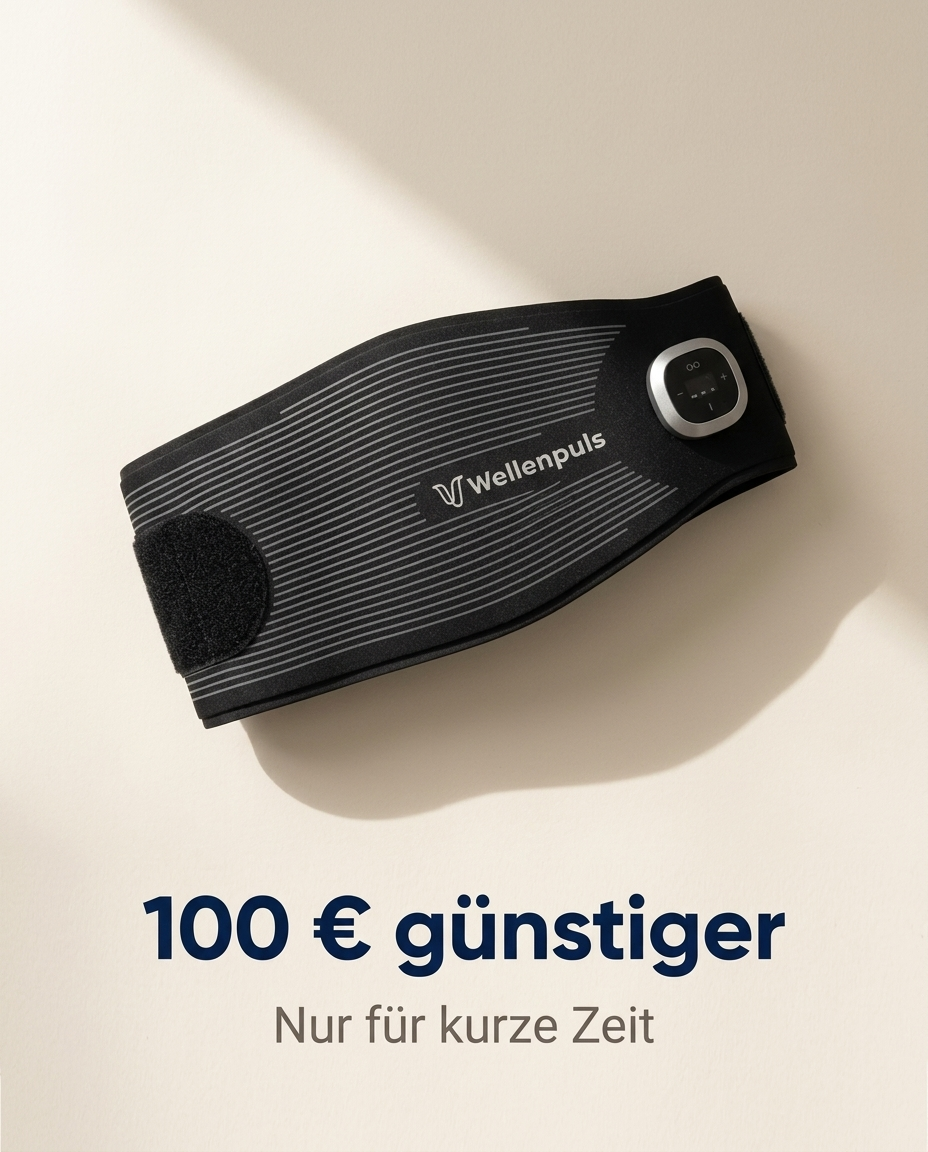
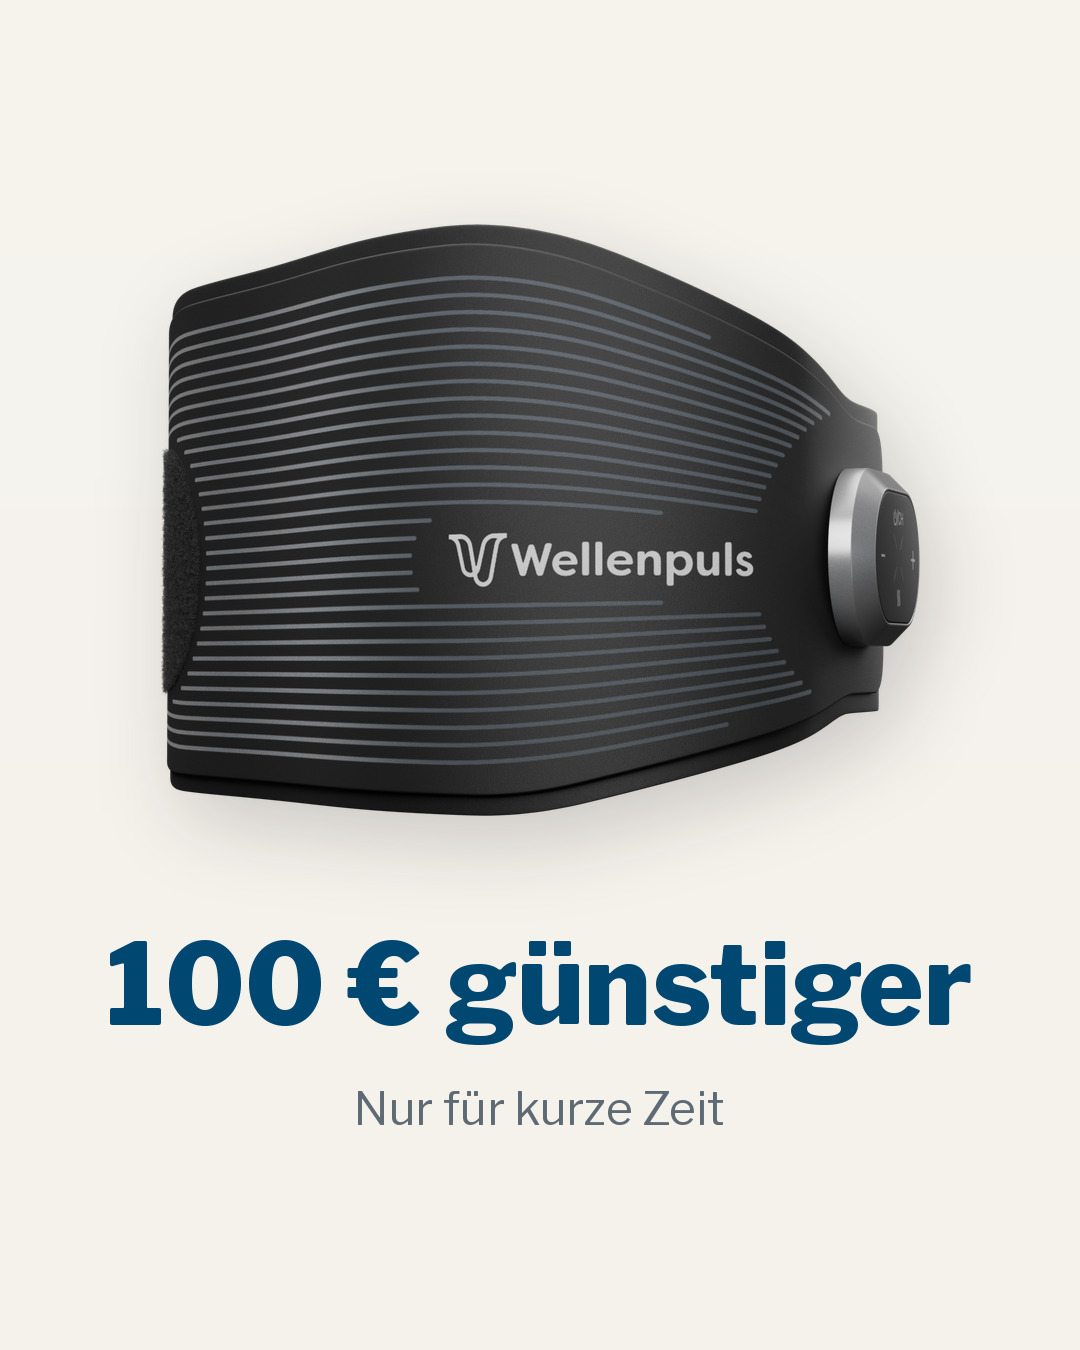
Anzeigenmotive aus echten Produktaufnahmen bauen statt sie zu generieren
Der Guertel kam aus dem Bildmodell nur annaehernd richtig heraus, und in
akt-02 trug die Frau ihn ueber der Bluse -- eine Anwendung, die es nicht gibt.
Bei einem Publikum, das das Produkt aus frueheren Anzeigen kennt, kostet das
mehr Glaubwuerdigkeit als ein ueberraschendes Bild einbringt.

Quellen sind jetzt der freigestellte PackShot, das Bundle-Rendering und das
Anwendungsfoto vom unteren Ruecken. Farben stammen aus denselben oklch-Token
wie die Landingpage, damit Anzeige und Seite nicht nach zwei Marken aussehen.

assets/Anwendung-wellenpuls.jpg bleibt aussen vor: es zeigt ein anderes
Geraet mit aussenliegenden Elektrodenpads.

diff --git a/scripts/bau-aktion-ads.py b/scripts/bau-aktion-ads.py
@@ -1,0 +1,156 @@
+#!/usr/bin/env python3
+"""Anzeigenmotive fuer die Rabattaktion aus echten Produktaufnahmen bauen.
+
+    python3 scripts/bau-aktion-ads.py
+
+Bewusst kein Bildmodell: Nano Banana hat den Guertel in der ersten Runde nur
+annaehernd getroffen und in einem Motiv ueber der Kleidung getragen. Bei einem
+Produkt, das die Zielgruppe aus frueheren Anzeigen schon kennt, ist eine
+ungenaue Darstellung teurer als ein weniger ueberraschendes Bild.
+
+Quellen, alle echt:
+    assets/PackShot_01.png                              freigestellt, Alpha sauber
+    assets/bundle_image.png                             Komplettpaket
+    assets/Frau_50_WellenpulsLWS_Lifestyle_Rueckansicht Anwendung am unteren Ruecken
+
+NICHT verwendet: assets/Anwendung-wellenpuls.jpg zeigt ein anderes Geraet
+(sichtbare Elektrodenpads aussen, abweichende Bedieneinheit).
+
+Ausgabe: assets/ads/aktion/*.jpg im Format 4:5 (1080x1350).
+"""
+import unicodedata
+from pathlib import Path
+from PIL import Image, ImageDraw, ImageFont, ImageFilter
+
+ROOT = Path(__file__).resolve().parent.parent
+OUT = ROOT / "assets/ads/aktion"
+FONTS = Path("/tmp/claude-0/-root-projects-stabil-im-alltag/"
+             "f9460ef2-a70e-4af8-ad16-5306a73299ae/scratchpad")
+B, H = 1080, 1350
+
+# ── Farben aus denselben oklch-Token wie die Landingpage ────────────────────
+# Eine Quelle fuer Seite und Anzeige: sonst driften Blau und Grau auseinander,
+# und der Wechsel von der Anzeige auf die Seite fuehlt sich nach zwei Marken an.
+def oklch(L, C, h_deg):
+    import math
+    h = math.radians(h_deg)
+    a, b_ = C * math.cos(h), C * math.sin(h)
+    l_, m_, s_ = L + .3963377774*a + .2158037573*b_, \
+                 L - .1055613458*a - .0638541728*b_, \
+                 L - .0894841775*a - 1.2914855480*b_
+    l, m, s = l_**3, m_**3, s_**3
+    r = +4.0767416621*l - 3.3077115913*m + 0.2309699292*s
+    g = -1.2684380046*l + 2.6097574011*m - 0.3413193965*s
+    bb = -0.0041960863*l - 0.7034186147*m + 1.7076147010*s
+    def gam(x):
+        x = max(0.0, min(1.0, x))
+        return 1.055*x**(1/2.4) - 0.055 if x > 0.0031308 else 12.92*x
+    return tuple(round(gam(v) * 255) for v in (r, g, bb))
+
+NAVY   = oklch(0.38, 0.10, 240)   # --primary
+NAVY_D = oklch(0.30, 0.10, 240)   # --primary-dark
+GRAU   = oklch(0.52, 0.02, 240)   # --text-muted
+BG     = (245, 242, 236)          # warmes Off-White, waermer als --bg der Seite
+
+def font(px, wght=400):
+    f = ImageFont.truetype(str(FONTS / "LibreFranklin-var.ttf"), px)
+    f.set_variation_by_axes([wght])
+    return f
+
+def mitte(d, y, text, f, farbe, durchstreichen=False):
+    """Zeichnet zentriert und gibt die Unterkante zurueck."""
+    l, t, r, b = d.textbbox((0, 0), text, font=f)
+    x = (B - (r - l)) // 2 - l
+    d.text((x, y - t), text, font=f, fill=farbe)
+    if durchstreichen:
+        hoehe = b - t
+        yy = y + hoehe * 0.42
+        d.line([(x + l - 12, yy), (x + r + 12, yy)], fill=farbe, width=max(3, hoehe // 22))
+    return y + (b - t)
+
+def schatten(basis, obj, xy, unschaerfe=38, deckung=110, versatz=(14, 26)):
+    """Weicher Schlagschatten aus dem Alphakanal des Objekts."""
+    s = Image.new("RGBA", basis.size, (0, 0, 0, 0))
+    maske = obj.getchannel("A").point(lambda v: int(v * deckung / 255))
+    schwarz = Image.new("RGBA", obj.size, (30, 35, 45, 255))
+    schwarz.putalpha(maske)
+    s.paste(schwarz, (xy[0] + versatz[0], xy[1] + versatz[1]), schwarz)
+    s = s.filter(ImageFilter.GaussianBlur(unschaerfe))
+    basis.alpha_composite(s)
+
+def leinwand():
+    im = Image.new("RGBA", (B, H), BG + (255,))
+    # Sehr flacher Lichtverlauf von oben links, damit die Flaeche nicht tot wirkt.
+    v = Image.new("L", (B, H))
+    dv = ImageDraw.Draw(v)
+    for i in range(H):
+        dv.line([(0, i), (B, i)], fill=int(16 * (1 - i / H)))
+    im.alpha_composite(Image.merge("RGBA", (
+        Image.new("L", (B, H), 255), Image.new("L", (B, H), 255),
+        Image.new("L", (B, H), 255), v)))
+    return im
+
+def zuschneiden(pfad, ziel_b, ziel_h, fokus_x=0.5, fokus_y=0.5):
+    """Auf Zielverhaeltnis beschneiden, Bildmitte frei waehlbar."""
+    im = Image.open(ROOT / pfad).convert("RGB")
+    soll = ziel_b / ziel_h
+    ist = im.width / im.height
+    if ist > soll:
+        nb = int(im.height * soll)
+        x = int((im.width - nb) * fokus_x)
+        im = im.crop((x, 0, x + nb, im.height))
+    else:
+        nh = int(im.width / soll)
+        y = int((im.height - nh) * fokus_y)
+        im = im.crop((0, y, im.width, y + nh))
+    return im.resize((ziel_b, ziel_h), Image.LANCZOS)
+
+def platziere(basis, pfad, breite, mitte_y, mit_schatten=True):
+    obj = Image.open(ROOT / pfad).convert("RGBA")
+    obj = obj.crop(obj.getchannel("A").point(lambda v: 255 if v > 8 else 0).getbbox())
+    h = round(obj.height * breite / obj.width)
+    obj = obj.resize((breite, h), Image.LANCZOS)
+    xy = ((B - breite) // 2, mitte_y - h // 2)
+    if mit_schatten:
+        schatten(basis, obj, xy)
+    basis.alpha_composite(obj, xy)
+    return xy[1] + h
+
+def sichern(im, name):
+    OUT.mkdir(parents=True, exist_ok=True)
+    p = OUT / (name + ".jpg")
+    im.convert("RGB").save(p, "JPEG", quality=92, subsampling=0, optimize=True)
+    print("ok  %-30s %s" % (name, p.relative_to(ROOT)))
+
+# ── akt-01  Packshot mit Rabattzeile ───────────────────────────────────────
+im = leinwand()
+platziere(im, "assets/PackShot_01.png", 760, 520)
+d = ImageDraw.Draw(im)
+u = mitte(d, 940, "100 € günstiger", font(112, 800), NAVY)
+mitte(d, u + 46, "Nur für kurze Zeit", font(46, 400), GRAU)
+sichern(im, "akt-01-packshot-rabatt")
+
+# ── akt-02  Anwendung, echtes Foto, ohne Text ──────────────────────────────
+# Der Guertel sitzt am unteren Ruecken unter der Bluse. Genau die Darstellung,
+# die im generierten Motiv falsch war. Bewusst ohne Schrift: vier Motive im
+# selben Look landen bei Meta im selben Delivery-Bucket.
+foto = zuschneiden("assets/Frau_50_WellenpulsLWS_Lifestyle_Rückansicht.png",
+                   B, H, fokus_x=0.30)
+sichern(foto, "akt-02-anwendung-ruecken")
+
+# ── akt-03  Komplettpaket ──────────────────────────────────────────────────
+im = leinwand()
+unten = platziere(im, "assets/bundle_image.png", 1000, 520, mit_schatten=False)
+d = ImageDraw.Draw(im)
+u = mitte(d, 1020, "389 € statt 489 €", font(88, 800), NAVY)
+mitte(d, u + 40, "Komplettpaket · bis 16. August", font(42, 400), GRAU)
+sichern(im, "akt-03-paket-komplett")
+
+# ── akt-04  Preis, redaktionell ────────────────────────────────────────────
+im = leinwand()
+d = ImageDraw.Draw(im)
+u = mitte(d, 250, "489 €", font(96, 600), GRAU, durchstreichen=True)
+u = mitte(d, u + 30, "389 €", font(200, 800), NAVY)
+mitte(d, u + 44, "Komplettpaket, einmalig", font(44, 400), GRAU)
+platziere(im, "assets/PackShot_01.png", 620, 1030)
+sichern(im, "akt-04-preis-editorial")

diff --git a/aktion/ADS.md b/aktion/ADS.md
@@ -17,7 +17,7 @@ Code, der Aktionspreis ist direkt eingepreist.
 
 ## akt-01 · Packshot mit Rabattzeile
 
-Motiv: `assets/ads/aktion/akt-01-packshot-rabatt.jpg` (4:5)
+Motiv: `assets/ads/aktion/akt-01-packshot-rabatt.jpg` (4:5) — echter Packshot
 
 **Primary Text**
 
@@ -32,9 +32,9 @@ Motiv: `assets/ads/aktion/akt-01-packshot-rabatt.jpg` (4:5)
 
 ---
 
-## akt-02 · Wohnzimmer, Anwendung im Alltag
+## akt-02 · Anwendung am unteren Rücken
 
-Motiv: `assets/ads/aktion/akt-02-wohnzimmer-abend.jpg` (4:5)
+Motiv: `assets/ads/aktion/akt-02-anwendung-ruecken.jpg` (4:5) — echtes Foto
 
 **Primary Text**
 
@@ -49,9 +49,9 @@ Motiv: `assets/ads/aktion/akt-02-wohnzimmer-abend.jpg` (4:5)
 
 ---
 
-## akt-03 · Paket von oben
+## akt-03 · Komplettpaket
 
-Motiv: `assets/ads/aktion/akt-03-paket-flatlay.jpg` (4:5)
+Motiv: `assets/ads/aktion/akt-03-paket-komplett.jpg` (4:5) — echtes Bundle-Rendering
 
 **Primary Text**
 
@@ -68,7 +68,7 @@ Motiv: `assets/ads/aktion/akt-03-paket-flatlay.jpg` (4:5)
 
 ## akt-04 · Preis, editorial
 
-Motiv: `assets/ads/aktion/akt-04-preis-editorial.jpg` (4:5)
+Motiv: `assets/ads/aktion/akt-04-preis-editorial.jpg` (4:5) — echter Packshot
 
 **Primary Text**
 
@@ -82,6 +82,22 @@ Motiv: `assets/ads/aktion/akt-04-preis-editorial.jpg` (4:5)
 **CTA:** SHOP_NOW
 
 ---
+
+## Warum die Motive nicht mehr generiert werden
+
+Die erste Runde lief über `gemini-3.1-flash-image`. Der Gürtel kam dabei nur
+annähernd richtig heraus, und in einem Motiv trug die Frau ihn über der
+Bluse — eine Anwendung, die es so nicht gibt. Bei einem Publikum, das das
+Produkt aus früheren Anzeigen kennt, kostet eine falsche Darstellung mehr
+Glaubwürdigkeit, als ein überraschendes Bild an Aufmerksamkeit bringt.
+
+Die Motive entstehen jetzt in `scripts/bau-aktion-ads.py` aus echten Aufnahmen:
+freigestellter Packshot, Bundle-Rendering und das Anwendungsfoto vom unteren
+Rücken. Typografie kommt aus Libre Franklin, Farben aus denselben
+oklch-Token wie die Landingpage.
+
+**Nicht verwenden: `assets/Anwendung-wellenpuls.jpg`.** Das Bild zeigt ein
+anderes Gerät — Elektrodenpads außen, abweichende Bedieneinheit.
 
 ## Warum vier verschiedene Bildsprachen
 
